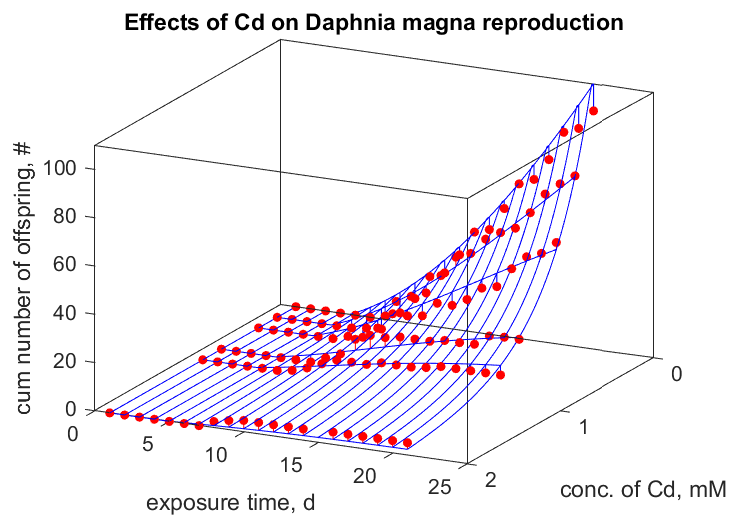
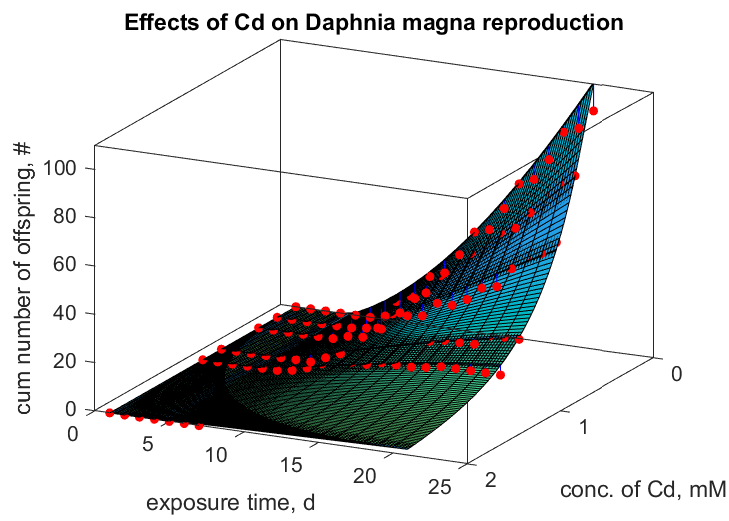
AmPtox

Changed region(s): [[0.1509, 0.1536, 0.8148, 0.8599]]

diff --git a/lib/pet/results_pets.m b/lib/pet/results_pets.m
@@ -297,9 +297,12 @@ function results_pets(par, metaPar, txtPar, data, auxData, metaData, txtData, we
                   if treat{1} == 1 
                     plot3(xAxis(:,ones(1,k-1)), ones(n_x,1)*yData', prdX, 'Color',plotColours{2}) 
                     plot3(ones(n_y,1)*xData' , yAxis(:,ones(1,nX)), prdY', 'Color',plotColours{2})
-                  else % alternatively a surface presentation if n_x = n_y
+                  elseif treat{1} == 2 % alternatively a surface presentation if n_x = n_y
                     x = [xAxis(:,ones(1,k-1)),ones(n_y,1)*xData']; y = [ones(n_x,1)*yData', yAxis(:,ones(1,nX))]; z = [prdX, prdY'];
                     surf(x,y,z, 'AlphaData',gradient(z), 'FaceAlpha',0.1, 'FaceColor',plotColours{2})
+                  else % alternatively a surface presentation if n_x = n_y
+                    x = [xAxis(:,ones(1,k-1)),ones(n_y,1)*xData']; y = [ones(n_x,1)*yData', yAxis(:,ones(1,nX))]; z = [prdX, prdY'];
+                    surfl(x,y,z);%, 'FaceAlpha',0.1)%, % ,'FaceColor',plotColours{2})
                   end
                   % plot connections of points to mesh & points
                   for ii = 1:k-1  % scan y-values

diff --git a/AmPtox/mydata_Dm_Cd_rep.m b/AmPtox/mydata_Dm_Cd_rep.m
@@ -27,8 +27,8 @@ N = [0.000   0.000   0.000   0.000   0.000   0.000 % Daphnia magna
      98.700  76.200  53.000  21.700  11.300   5.244];
 data.tN = [t, N]; 
 units.tN = {'d', '#'}; label.tN = {'exposure time', 'cum number of offspring'};  
-treat.tN = {1, c}; units.treat.tN = 'mM'; label.treat.tN = 'conc. of Cd';
-bibkey.tN = 'bla2022';
+treat.tN = {3, c}; units.treat.tN = 'mM'; label.treat.tN = 'conc. of Cd';
+bibkey.tN = 'KooyBeda1996';
 comment.tN = 'Effects of Cd on Daphnia magna reproduction';
   
 %% set weights for all real data
@@ -50,6 +50,11 @@ txtData.comment = comment;
 %metaData.discussion = struct('D1', D1);
 
 %% References
-bibkey = 'bla2022'; type = 'Misc'; bib = ...
-'howpublished = {\url{http://en.wikipedia.org/wiki/my_pet}}';
+%
+bibkey = 'KooyBeda1996'; type = 'Book'; bib = [ ...  % used in setting of chemical parameters and pseudodata
+'author = {Kooijman, S.A.L.M. and Bedaux, J.J.M.}, ' ...
+'year = {1996}, ' ...
+'title  = {The analysis of aquatic toxicity data}, ' ...
+'publisher = {VU University Press}'];
 metaData.biblist.(bibkey) = ['''@', type, '{', bibkey, ', ' bib, '}'';'];
+
